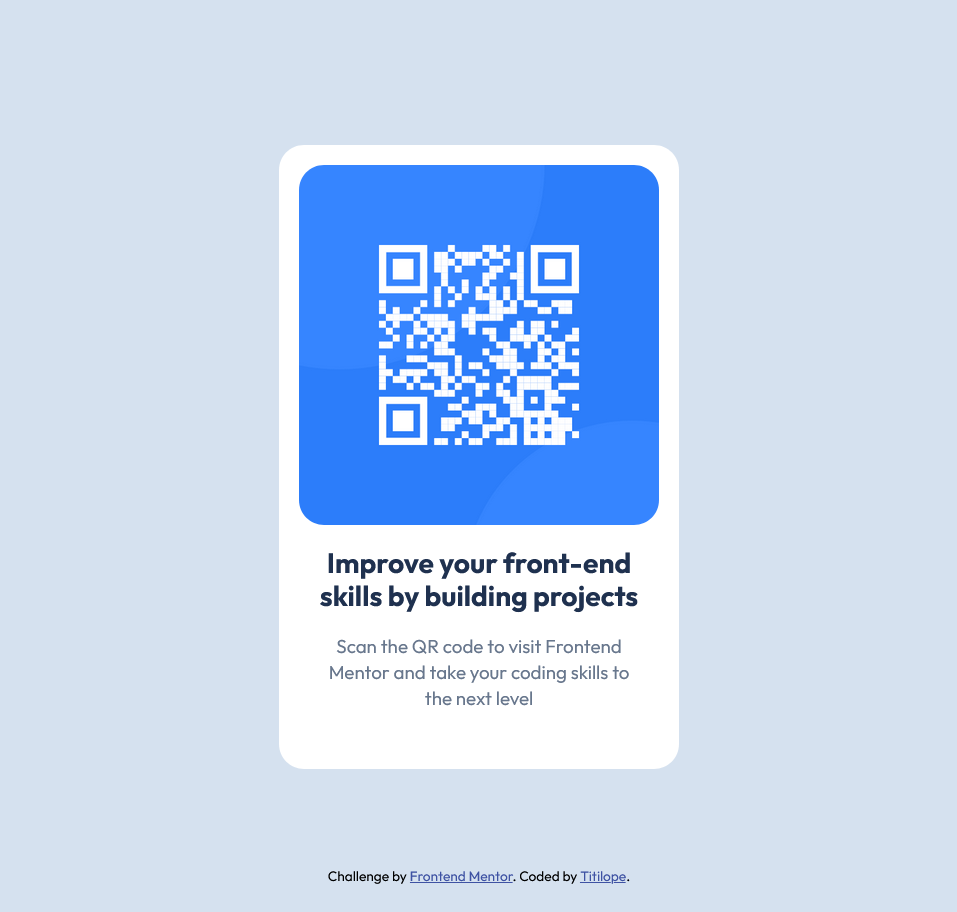
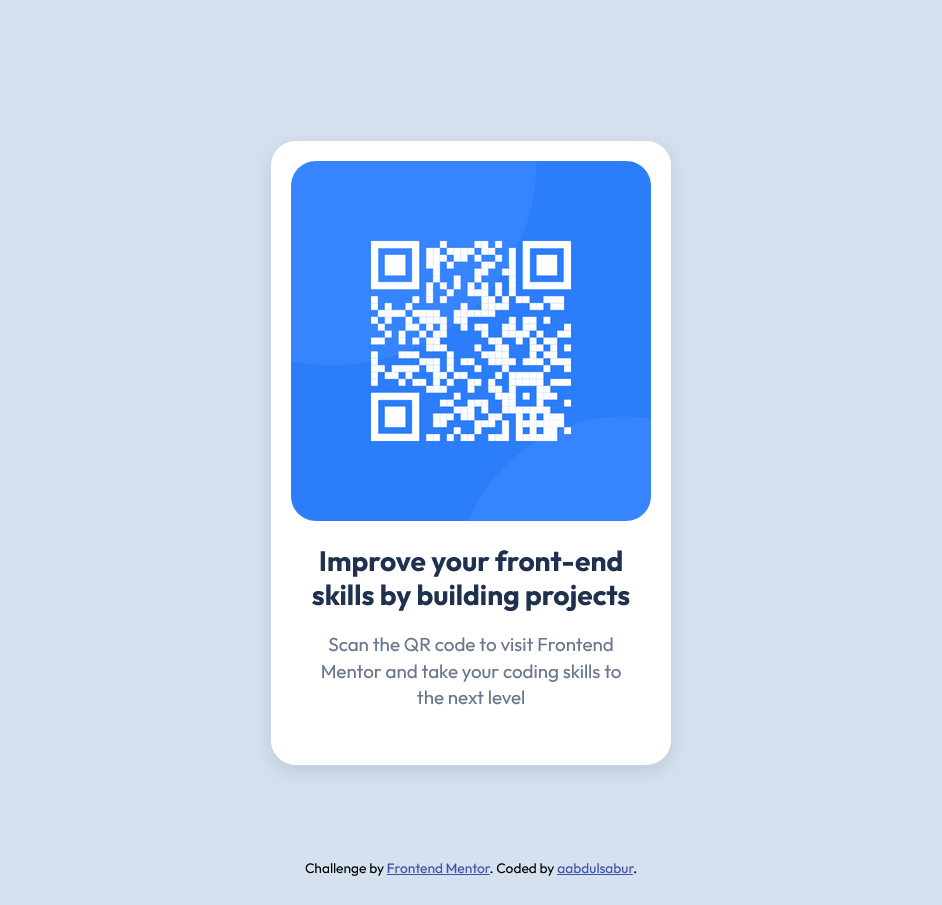
new screenshot

diff --git a/styles.css b/styles.css
@@ -19,6 +19,7 @@
 img {
   width: 100%;
   display: block;
+  margin-bottom: 18px;
 }
 
 body {
@@ -33,7 +34,7 @@ h2 {
   line-height: 1.2;
   margin-top: 16px;
 }
- p {
+p {
   color: var(--clr-grey);
   margin-top: 16px;
   font-weight: 400;
@@ -54,6 +55,7 @@ section {
   top: 50%;
   left: 50%;
   transform: translate(-50%, -50%);
+  box-shadow: 0 5px 15px rgba(0, 0, 0, 0.1);
 }
 
 .qr-code {
@@ -66,9 +68,7 @@ section {
   text-align: center;
 }
 
-
-
-.attribution{
+.attribution {
   position: absolute;
   left: 50%;
   bottom: 15px;
